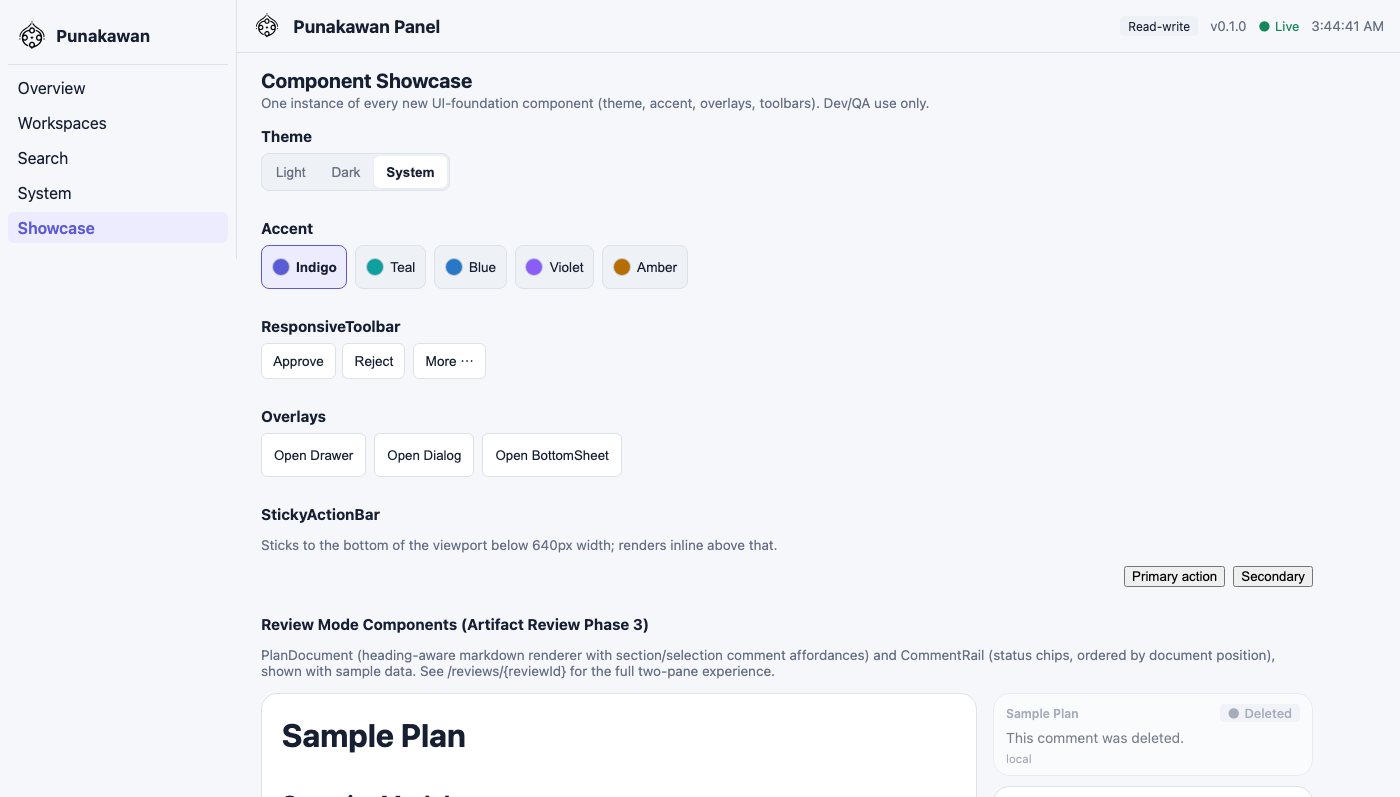
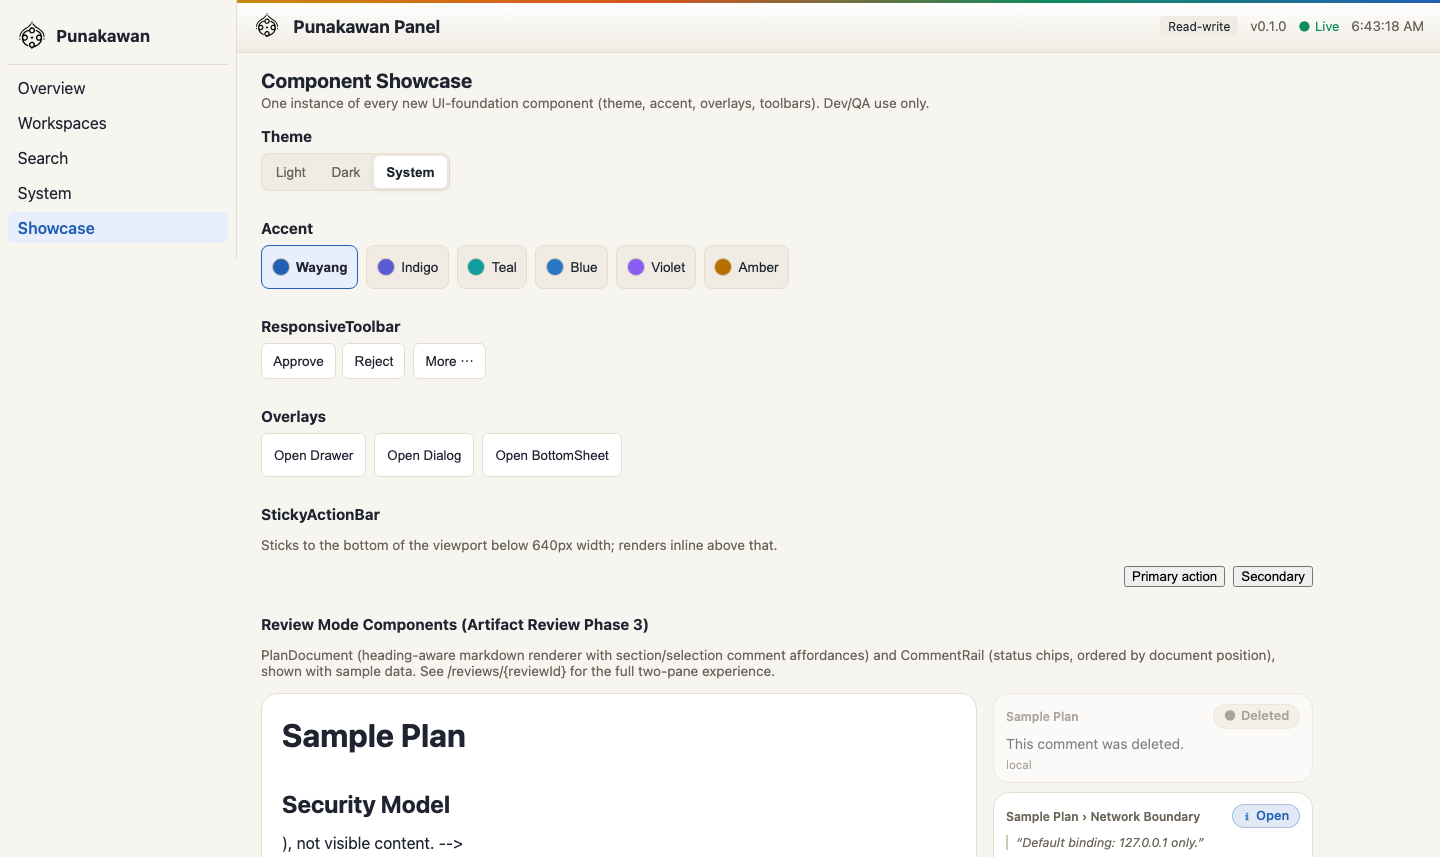
docs: refresh panel screenshots for the wayang-themed UI
Replace the panel Overview + showcase screenshots with the batik-themed UI
and note the palette in the Panel section.

Generated with [Claude Code](https://claude.com/claude-code)

diff --git a/README.md b/README.md
@@ -168,13 +168,14 @@ punakawan panel
 
 It renders an overview of sessions, the Beads task graph and dependencies,
 knowledge records, pending approvals, and a review mode for diffs and plans —
-theme-aware (light/dark), keyboard-accessible, and served entirely from the Go
-binary (the Svelte frontend is embedded via `go:embed`). Nothing leaves your
-machine; the listener binds to loopback and mutating routes are session- and
-CSRF-gated.
+keyboard-accessible and served entirely from the Go binary (the Svelte frontend
+is embedded via `go:embed`). Nothing leaves your machine; the listener binds to
+loopback and mutating routes are session- and CSRF-gated.
 
-The UI is one design system — theme, accent, cards, charts, tables, and the
-review flow all share the same tokens (light and dark):
+The interface is a single design system themed on the wayang batik palette drawn
+from the artwork above — gold, teal, terracotta, and indigo — with accented
+metric tiles, status pills, charts, and modals that all read from the same
+tokens in both light and dark:
 
 <p align="center">
   <img src="assets/panel-showcase.png" alt="Punakawan Panel — component/theme system" width="820" />